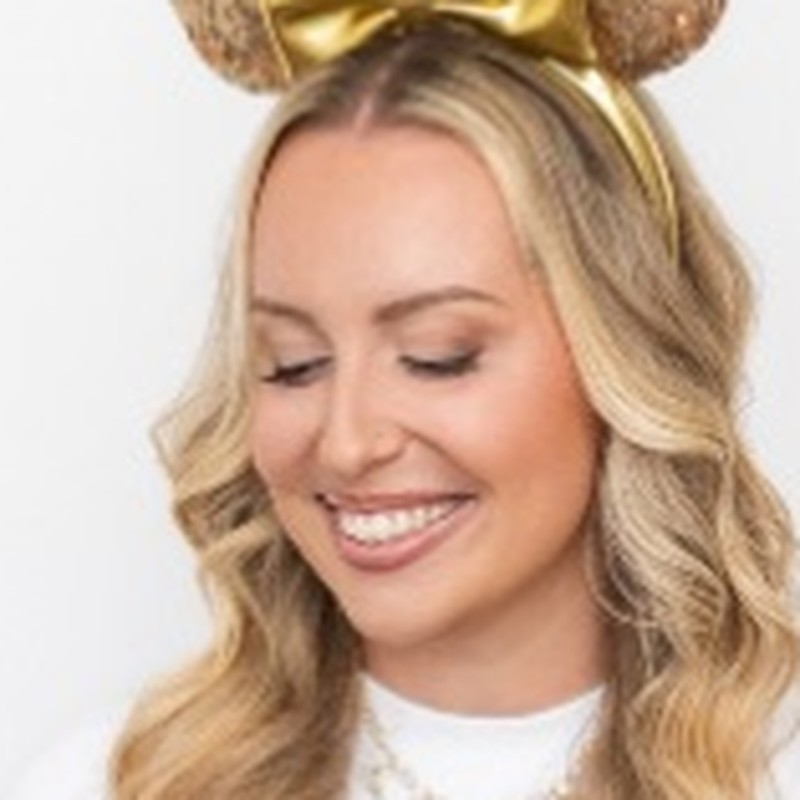
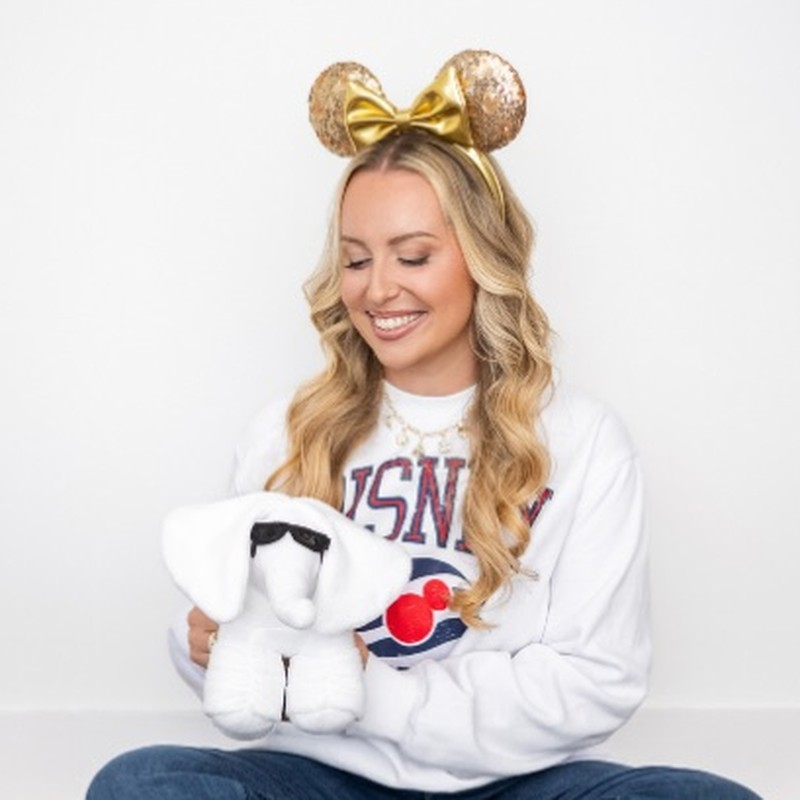
Zoom out Emily, Martina, and Donna directory headshots.
Give all three more breathing room in the circle after the last tight crops.

diff --git a/assets/agents-data.js b/assets/agents-data.js
@@ -98,10 +98,10 @@ window.CC_profilePath = function (agent) {
 
 /** Pre-cropped headshots for directory circles (full-body uploads stay in blob storage). */
 window.CC_AGENT_PHOTO_OVERRIDES = {
-  "emily-schultz": "/assets/agent-photos/emily-schultz.jpg?v=4",
-  "martina-yost": "/assets/agent-photos/martina-yost.jpg?v=3",
+  "emily-schultz": "/assets/agent-photos/emily-schultz.jpg?v=5",
+  "martina-yost": "/assets/agent-photos/martina-yost.jpg?v=4",
   "kim-fanning": "/assets/agent-photos/kim-fanning.jpg?v=2",
-  "donna-walters": "/assets/agent-photos/donna-walters.jpg?v=3",
+  "donna-walters": "/assets/agent-photos/donna-walters.jpg?v=4",
   "shana-matos": "/assets/agent-photos/shana-matos.jpg?v=2",
   "rebekah-lukins": "/assets/agent-photos/rebekah-lukins.jpg?v=2"
 };

diff --git a/articles/welcome-aboard-emily.html b/articles/welcome-aboard-emily.html
@@ -122,7 +122,7 @@
       <p class="article-meta">Published August 7, 2026 · <a href="/agents/" style="color:var(--teal);">Travel agents</a></p>
 
       <div class="agent-feature-hero">
-        <div class="agent-feature-photo"><img src="/assets/agent-photos/emily-schultz.jpg?v=4" alt="Emily Schultz"></div>
+        <div class="agent-feature-photo"><img src="/assets/agent-photos/emily-schultz.jpg?v=5" alt="Emily Schultz"></div>
         <div>
           <h2>Emily Schultz</h2>
           <p class="meta">Magic Mom Travel · Waukesha, WI (remote)</p>

diff --git a/articles/welcome-aboard-donna.html b/articles/welcome-aboard-donna.html
@@ -122,7 +122,7 @@
       <p class="article-meta">Published August 2, 2026 · <a href="/agents/" style="color:var(--teal);">Travel agents</a></p>
 
       <div class="agent-feature-hero">
-        <div class="agent-feature-photo"><img src="/assets/agent-photos/donna-walters.jpg?v=3" alt="Donna Walters"></div>
+        <div class="agent-feature-photo"><img src="/assets/agent-photos/donna-walters.jpg?v=4" alt="Donna Walters"></div>
         <div>
           <h2>Donna Walters</h2>
           <p class="meta">EnchantAway Travel · Celebration, FL</p>

diff --git a/articles/welcome-aboard-martina.html b/articles/welcome-aboard-martina.html
@@ -122,7 +122,7 @@
       <p class="article-meta">Published August 9, 2026 · <a href="/agents/" style="color:var(--teal);">Travel agents</a></p>
 
       <div class="agent-feature-hero">
-        <div class="agent-feature-photo"><img src="/assets/agent-photos/martina-yost.jpg?v=3" alt="Martina Yost"></div>
+        <div class="agent-feature-photo"><img src="/assets/agent-photos/martina-yost.jpg?v=4" alt="Martina Yost"></div>
         <div>
           <h2>Martina Yost</h2>
           <p class="meta">Magic Mom Travel LLC · Aubrey, TX</p>
